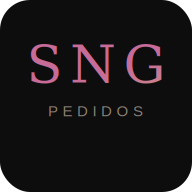
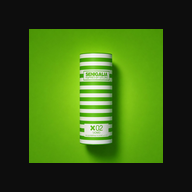
Add files via upload

diff --git a/src/App.jsx b/src/App.jsx
@@ -266,8 +266,19 @@ export default function App() {
   const [saved, setSaved] = useState([]);
   const [loading, setLoading] = useState(true);
   const [viewOrder, setViewOrder] = useState(null);
+  const [logoUrl, setLogoUrl] = useState("/logo-sng.png");
+  const [outOfStock, setOutOfStock] = useState({});
+  const [stockSearch, setStockSearch] = useState("");
+  const [stockFilterG, setStockFilterG] = useState("ALL");
 
   useEffect(() => { loadOrders().then(o => { setSaved(o); setLoading(false); }); }, []);
+  // Persist logo & stock
+  useEffect(() => { try { const l = localStorage.getItem("sng-logo"); if(l) setLogoUrl(l); const s = localStorage.getItem("sng-stock"); if(s) setOutOfStock(JSON.parse(s)); } catch{} }, []);
+  useEffect(() => { try { localStorage.setItem("sng-logo", logoUrl); } catch{} }, [logoUrl]);
+  useEffect(() => { try { localStorage.setItem("sng-stock", JSON.stringify(outOfStock)); } catch{} }, [outOfStock]);
+
+  const toggleStock = (pid) => setOutOfStock(p => { const n={...p}; if(n[pid]) delete n[pid]; else n[pid]=true; return n; });
+  const isOOS = (pid) => !!outOfStock[pid];
 
   const upCart = (pid, sz, d) => setCart(p => { const k=`${pid}_${sz}`,c=p[k]||0,n=Math.max(0,c+d); if(!n){const x={...p};delete x[k];return x;} return {...p,[k]:n}; });
   const gQ = (pid, sz) => cart[`${pid}_${sz}`]||0;
@@ -303,7 +314,7 @@ export default function App() {
     const finalTotal = afterDesc * (1 - descTr/100);
     const finalNeto = finalTotal / divIva;
     const finalIva = finalTotal - finalNeto;
-    return {totalBrutoEDP,totalBrutoEDT,totalBruto,desc,afterDesc,neto,ivaAmount,iva,descTr,finalTotal,finalNeto,finalIva};
+    return {totalBrutoEDP,totalBrutoEDT,totalBruto,desc,afterDesc,neto,ivaAmount,iva,descTr,finalTotal,finalNeto,finalIva,pe,pt,ppe,ppt};
   },[pre,tot]);
 
   const filtered = useMemo(()=>{
@@ -502,15 +513,19 @@ export default function App() {
       {/* HEADER */}
       <div style={{background:"linear-gradient(180deg,rgba(199,107,152,0.08) 0%,transparent 100%)",borderBottom:"1px solid rgba(255,255,255,0.06)",padding:"14px 12px",position:"sticky",top:0,zIndex:100,backdropFilter:"blur(20px)"}}>
         <div style={{display:"flex",alignItems:"center",justifyContent:"space-between",maxWidth:900,margin:"0 auto"}}>
-          <div>
-            <h1 style={{fontSize:20,fontWeight:300,letterSpacing:6,textTransform:"uppercase",margin:0,background:"linear-gradient(135deg,#c76b98,#d4a574)",WebkitBackgroundClip:"text",WebkitTextFillColor:"transparent"}}>SNG</h1>
-            <p style={{fontFamily:"Outfit",fontSize:9,letterSpacing:3,textTransform:"uppercase",color:"#8a7e75",margin:"2px 0 0"}}>Toma de Pedido</p>
+          <div style={{display:"flex",alignItems:"center",gap:8}}>
+            {logoUrl && <img src={logoUrl} alt="Logo" style={{height:36,width:36,objectFit:"contain",borderRadius:6}} onError={()=>setLogoUrl("")}/>}
+            <div>
+              <h1 style={{fontSize:20,fontWeight:300,letterSpacing:6,textTransform:"uppercase",margin:0,background:"linear-gradient(135deg,#c76b98,#d4a574)",WebkitBackgroundClip:"text",WebkitTextFillColor:"transparent"}}>SNG</h1>
+              <p style={{fontFamily:"Outfit",fontSize:9,letterSpacing:3,textTransform:"uppercase",color:"#8a7e75",margin:"2px 0 0"}}>Toma de Pedido</p>
+            </div>
           </div>
           <div style={{display:"flex",gap:3,flexWrap:"wrap",justifyContent:"flex-end"}}>
-            {[{v:"catalog",l:"Catálogo"},{v:"cart",l:"Pedido"},{v:"precios",l:"Precios"},{v:"cliente",l:"Cliente"},{v:"archivo",l:"Archivo"}].map(t=>(
+            {[{v:"catalog",l:"Catálogo"},{v:"cart",l:"Pedido"},{v:"precios",l:"Precios"},{v:"cliente",l:"Cliente"},{v:"stock",l:"Stock"},{v:"archivo",l:"Archivo"}].map(t=>(
               <button key={t.v} onClick={()=>{setView(t.v);setViewOrder(null)}} style={{fontFamily:"Outfit",fontSize:9,letterSpacing:1,textTransform:"uppercase",padding:"5px 8px",borderRadius:14,border:view===t.v?"1px solid rgba(199,107,152,0.5)":"1px solid rgba(255,255,255,0.1)",background:view===t.v?"rgba(199,107,152,0.15)":"rgba(255,255,255,0.03)",color:view===t.v?"#c76b98":"#8a7e75",cursor:"pointer",position:"relative"}}>
                 {t.l}
                 {t.v==="cart"&&tot.totalAll>0&&<span style={{position:"absolute",top:-4,right:-4,background:"#c76b98",color:"#fff",borderRadius:"50%",width:14,height:14,fontSize:8,display:"flex",alignItems:"center",justifyContent:"center",fontFamily:"Outfit"}}>{tot.totalAll}</span>}
+                {t.v==="stock"&&Object.keys(outOfStock).length>0&&<span style={{position:"absolute",top:-4,right:-4,background:"#c76060",color:"#fff",borderRadius:"50%",width:14,height:14,fontSize:8,display:"flex",alignItems:"center",justifyContent:"center",fontFamily:"Outfit"}}>{Object.keys(outOfStock).length}</span>}
                 {t.v==="archivo"&&saved.length>0&&<span style={{position:"absolute",top:-4,right:-4,background:"#d4a574",color:"#fff",borderRadius:"50%",width:14,height:14,fontSize:8,display:"flex",alignItems:"center",justifyContent:"center",fontFamily:"Outfit"}}>{saved.length}</span>}
               </button>
             ))}
@@ -546,12 +561,12 @@ export default function App() {
           <div key={group} style={{marginBottom:20}}>
             <div style={{fontFamily:"Outfit",fontSize:10,letterSpacing:2,textTransform:"uppercase",color:"#6a6058",padding:"6px 0",borderBottom:"1px solid rgba(255,255,255,0.04)",marginBottom:6}}>{group} ({prods.length})</div>
             {prods.map(p=>{
-              const gc=GC[p.genero]||GC.UNISEX,qty=gT(p.id),isE=exp===p.id;
-              return(<div key={p.id} style={{marginBottom:1}}>
-                <div onClick={()=>setExp(isE?null:p.id)} style={{display:"flex",alignItems:"center",gap:8,padding:"8px 10px",borderRadius:8,background:qty>0?gc.glow:"transparent",border:qty>0?`1px solid ${gc.accent}33`:"1px solid transparent",cursor:"pointer",transition:"all 0.2s"}}>
-                  <div style={{width:3,height:28,borderRadius:2,background:qty>0?gc.accent:"rgba(255,255,255,0.06)"}}/>
+              const gc=GC[p.genero]||GC.UNISEX,qty=gT(p.id),isE=exp===p.id,oos=isOOS(p.id);
+              return(<div key={p.id} style={{marginBottom:1,opacity:oos?0.4:1}}>
+                <div onClick={()=>setExp(isE?null:p.id)} style={{display:"flex",alignItems:"center",gap:8,padding:"8px 10px",borderRadius:8,background:qty>0?gc.glow:oos?"rgba(200,80,80,0.05)":"transparent",border:qty>0?`1px solid ${gc.accent}33`:oos?"1px solid rgba(200,80,80,0.15)":"1px solid transparent",cursor:"pointer",transition:"all 0.2s"}}>
+                  <div style={{width:3,height:28,borderRadius:2,background:oos?"#c76060":qty>0?gc.accent:"rgba(255,255,255,0.06)"}}/>
                   <div style={{flex:1,minWidth:0}}>
-                    <div style={{fontFamily:"Outfit",fontSize:12,fontWeight:500,color:"#fff",letterSpacing:0.3}}>{p.fragancia} · {p.familia} · {TE[p.tapa]} {p.tapa}</div>
+                    <div style={{fontFamily:"Outfit",fontSize:12,fontWeight:500,color:oos?"#8a7e75":"#fff",letterSpacing:0.3}}>{p.fragancia} · {p.familia} · {TE[p.tapa]} {p.tapa} {oos&&<span style={{fontSize:9,color:"#c76060",fontWeight:600}}>SIN STOCK</span>}</div>
                     <div style={{fontFamily:"Outfit",fontSize:10,color:"#8a7e75",marginTop:1}}>{p.inspired}</div>
                   </div>
                   {qty>0&&<span style={{fontFamily:"Outfit",fontSize:11,fontWeight:600,color:gc.accent,background:`${gc.accent}22`,padding:"2px 8px",borderRadius:8}}>{qty}</span>}
@@ -641,6 +656,12 @@ export default function App() {
           {fac.totalBruto>0&&(
             <div style={{marginTop:10,padding:16,borderRadius:12,background:"linear-gradient(135deg,rgba(199,107,152,0.06),rgba(212,165,116,0.06))",border:"1px solid rgba(199,107,152,0.12)"}}>
               <div style={{fontFamily:"Outfit",fontSize:10,letterSpacing:2,textTransform:"uppercase",color:"#c76b98",marginBottom:8}}>Facturación (precios con IVA)</div>
+              <div style={{display:"grid",gridTemplateColumns:"1fr 1fr",gap:4,marginBottom:8}}>
+                {fac.pe>0&&<div style={{fontFamily:"Outfit",fontSize:10,color:"#6a6058",padding:"4px 8px",background:"rgba(255,255,255,0.02)",borderRadius:6}}>EDP 100ml: <span style={{color:"#d4a574"}}>${fmt(fac.pe)}</span> c/u</div>}
+                {fac.pt>0&&<div style={{fontFamily:"Outfit",fontSize:10,color:"#6a6058",padding:"4px 8px",background:"rgba(255,255,255,0.02)",borderRadius:6}}>EDT 100ml: <span style={{color:"#d4a574"}}>${fmt(fac.pt)}</span> c/u</div>}
+                {fac.ppe>0&&<div style={{fontFamily:"Outfit",fontSize:10,color:"#6a6058",padding:"4px 8px",background:"rgba(255,255,255,0.02)",borderRadius:6}}>EDP Prob: <span style={{color:"#d4a574"}}>${fmt(fac.ppe)}</span> c/u</div>}
+                {fac.ppt>0&&<div style={{fontFamily:"Outfit",fontSize:10,color:"#6a6058",padding:"4px 8px",background:"rgba(255,255,255,0.02)",borderRadius:6}}>EDT Prob: <span style={{color:"#d4a574"}}>${fmt(fac.ppt)}</span> c/u</div>}
+              </div>
               {[["Total EDP",fac.totalBrutoEDP],["Total EDT",fac.totalBrutoEDT],["Sub Total",fac.totalBruto]].map(([l,v],i)=>(
                 <div key={i} style={{display:"flex",justifyContent:"space-between",marginBottom:3}}><span style={{fontFamily:"Outfit",fontSize:12,color:"#8a7e75"}}>{l}</span><span style={{fontFamily:"Outfit",fontSize:12,color:"#e8e0d8"}}>${fmt(v)}</span></div>
               ))}
@@ -724,6 +745,16 @@ export default function App() {
             <div style={{fontFamily:"Outfit",fontSize:10,color:"#6a6058",marginTop:6}}>Pago: {pre.metodoPago==="mercadopago"?"💳 Mercado Pago":"🏦 Depósito / Transferencia"}</div>
           </div>
         )}
+        {/* Logo config */}
+        <div style={{marginTop:24,padding:16,borderRadius:12,background:"rgba(255,255,255,0.02)",border:"1px solid rgba(255,255,255,0.06)"}}>
+          <div style={{fontFamily:"Outfit",fontSize:10,letterSpacing:2,textTransform:"uppercase",color:"#8a7e75",marginBottom:10}}>Logo / Imagen de la App</div>
+          <p style={{fontFamily:"Outfit",fontSize:10,color:"#6a6058",marginBottom:8}}>Pegá la URL de tu logo (aparece en el header y en los PDFs)</p>
+          <input type="url" value={logoUrl} onChange={e=>setLogoUrl(e.target.value)} placeholder="https://ejemplo.com/mi-logo.png" style={{width:"100%",boxSizing:"border-box",padding:"11px 14px",fontFamily:"Outfit",fontSize:12,background:"rgba(255,255,255,0.04)",border:"1px solid rgba(255,255,255,0.08)",borderRadius:10,color:"#e8e0d8",outline:"none"}}/>
+          {logoUrl&&<div style={{marginTop:10,display:"flex",alignItems:"center",gap:10}}>
+            <img src={logoUrl} alt="Preview" style={{height:48,borderRadius:8,background:"rgba(255,255,255,0.05)",padding:4}} onError={(e)=>{e.target.style.display="none"}}/>
+            <button onClick={()=>setLogoUrl("")} style={{fontFamily:"Outfit",fontSize:9,padding:"4px 10px",borderRadius:8,border:"1px solid rgba(200,80,80,0.3)",background:"transparent",color:"#c76060",cursor:"pointer"}}>Quitar</button>
+          </div>}
+        </div>
       </div>)}
 
       {/* ===== CLIENTE ===== */}
@@ -753,6 +784,38 @@ export default function App() {
             </div>
           </div>
         )}
+      </div>)}
+
+      {/* ===== STOCK ===== */}
+      {view==="stock"&&(<div style={{paddingTop:14}}>
+        <h2 style={{fontWeight:300,fontSize:18,letterSpacing:3,textTransform:"uppercase",marginBottom:6}}>Control de Stock</h2>
+        <p style={{fontFamily:"Outfit",fontSize:10,color:"#6a6058",marginBottom:14}}>Marcá las fragancias que no tenés en stock. Aparecen tachadas en el catálogo.</p>
+        <div style={{display:"flex",gap:6,marginBottom:10,flexWrap:"wrap",alignItems:"center"}}>
+          <input value={stockSearch} onChange={e=>setStockSearch(e.target.value)} placeholder="Buscar..." style={{flex:1,minWidth:150,padding:"10px 14px",fontFamily:"Outfit",fontSize:12,background:"rgba(255,255,255,0.04)",border:"1px solid rgba(255,255,255,0.08)",borderRadius:10,color:"#e8e0d8",outline:"none"}}/>
+          {["ALL","DONNA","UOMO","UNISEX"].map(g=>(<button key={g} onClick={()=>setStockFilterG(g)} style={B(stockFilterG===g,g!=="ALL"?GC[g]?.accent:"#c76b98")}>{g==="ALL"?"Todos":g}</button>))}
+        </div>
+        {Object.keys(outOfStock).length>0&&<div style={{fontFamily:"Outfit",fontSize:10,color:"#c76060",marginBottom:10,padding:"6px 10px",borderRadius:8,background:"rgba(200,80,80,0.08)",border:"1px solid rgba(200,80,80,0.15)"}}>
+          ⚠ {Object.keys(outOfStock).length} producto{Object.keys(outOfStock).length>1?"s":""} sin stock
+          <button onClick={()=>setOutOfStock({})} style={{marginLeft:10,fontFamily:"Outfit",fontSize:9,padding:"2px 8px",borderRadius:6,border:"1px solid rgba(200,80,80,0.3)",background:"transparent",color:"#c76060",cursor:"pointer"}}>Limpiar todo</button>
+        </div>}
+        {PRODUCTS.filter(p=>{
+          if(stockFilterG!=="ALL"&&p.genero!==stockFilterG)return false;
+          if(stockSearch){const q=stockSearch.toLowerCase();return p.fragancia.toLowerCase().includes(q)||p.inspired.toLowerCase().includes(q)||p.familia.toLowerCase().includes(q);}
+          return true;
+        }).sort((a,b)=>a.orden-b.orden).map(p=>{
+          const gc=GC[p.genero]||GC.UNISEX, oos=isOOS(p.id);
+          return(<div key={p.id} onClick={()=>toggleStock(p.id)} style={{display:"flex",alignItems:"center",gap:8,padding:"8px 10px",marginBottom:1,borderRadius:8,background:oos?"rgba(200,80,80,0.08)":"transparent",border:oos?"1px solid rgba(200,80,80,0.2)":"1px solid transparent",cursor:"pointer",transition:"all 0.15s"}}>
+            <div style={{width:22,height:22,borderRadius:6,border:oos?"2px solid #c76060":"2px solid rgba(255,255,255,0.15)",background:oos?"#c76060":"transparent",display:"flex",alignItems:"center",justifyContent:"center",flexShrink:0,transition:"all 0.15s"}}>
+              {oos&&<span style={{color:"#fff",fontSize:13,fontWeight:700}}>✕</span>}
+            </div>
+            <div style={{width:3,height:24,borderRadius:2,background:gc.accent,opacity:oos?0.3:1}}/>
+            <div style={{flex:1,opacity:oos?0.5:1}}>
+              <div style={{fontFamily:"Outfit",fontSize:11,fontWeight:500,color:oos?"#8a7e75":"#fff",textDecoration:oos?"line-through":"none"}}>{p.fragancia} · {p.tipo} · {TE[p.tapa]} {p.tapa}</div>
+              <div style={{fontFamily:"Outfit",fontSize:9,color:"#6a6058"}}>{p.inspired}</div>
+            </div>
+            {oos&&<span style={{fontFamily:"Outfit",fontSize:8,color:"#c76060",fontWeight:600,letterSpacing:1,textTransform:"uppercase"}}>SIN STOCK</span>}
+          </div>);
+        })}
       </div>)}
 
       {/* ===== ARCHIVO ===== */}